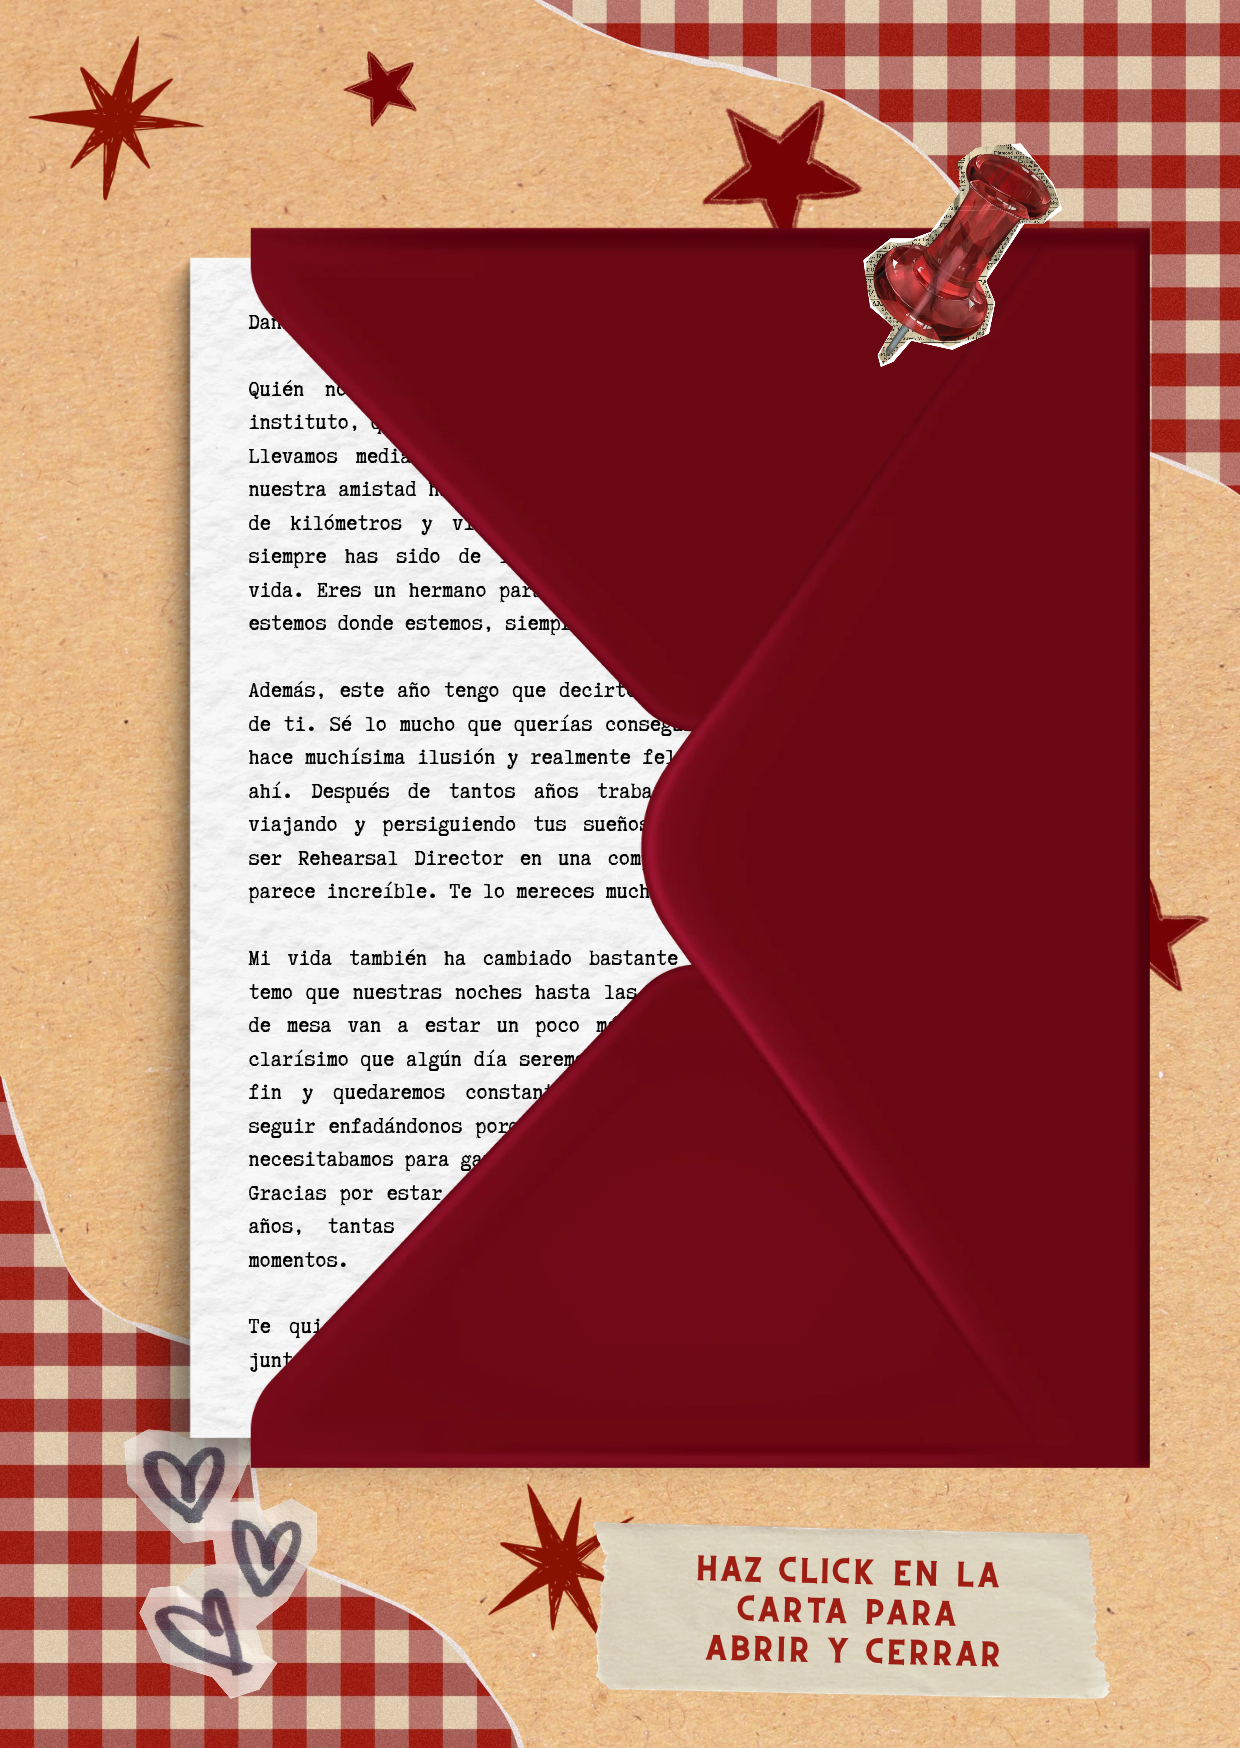
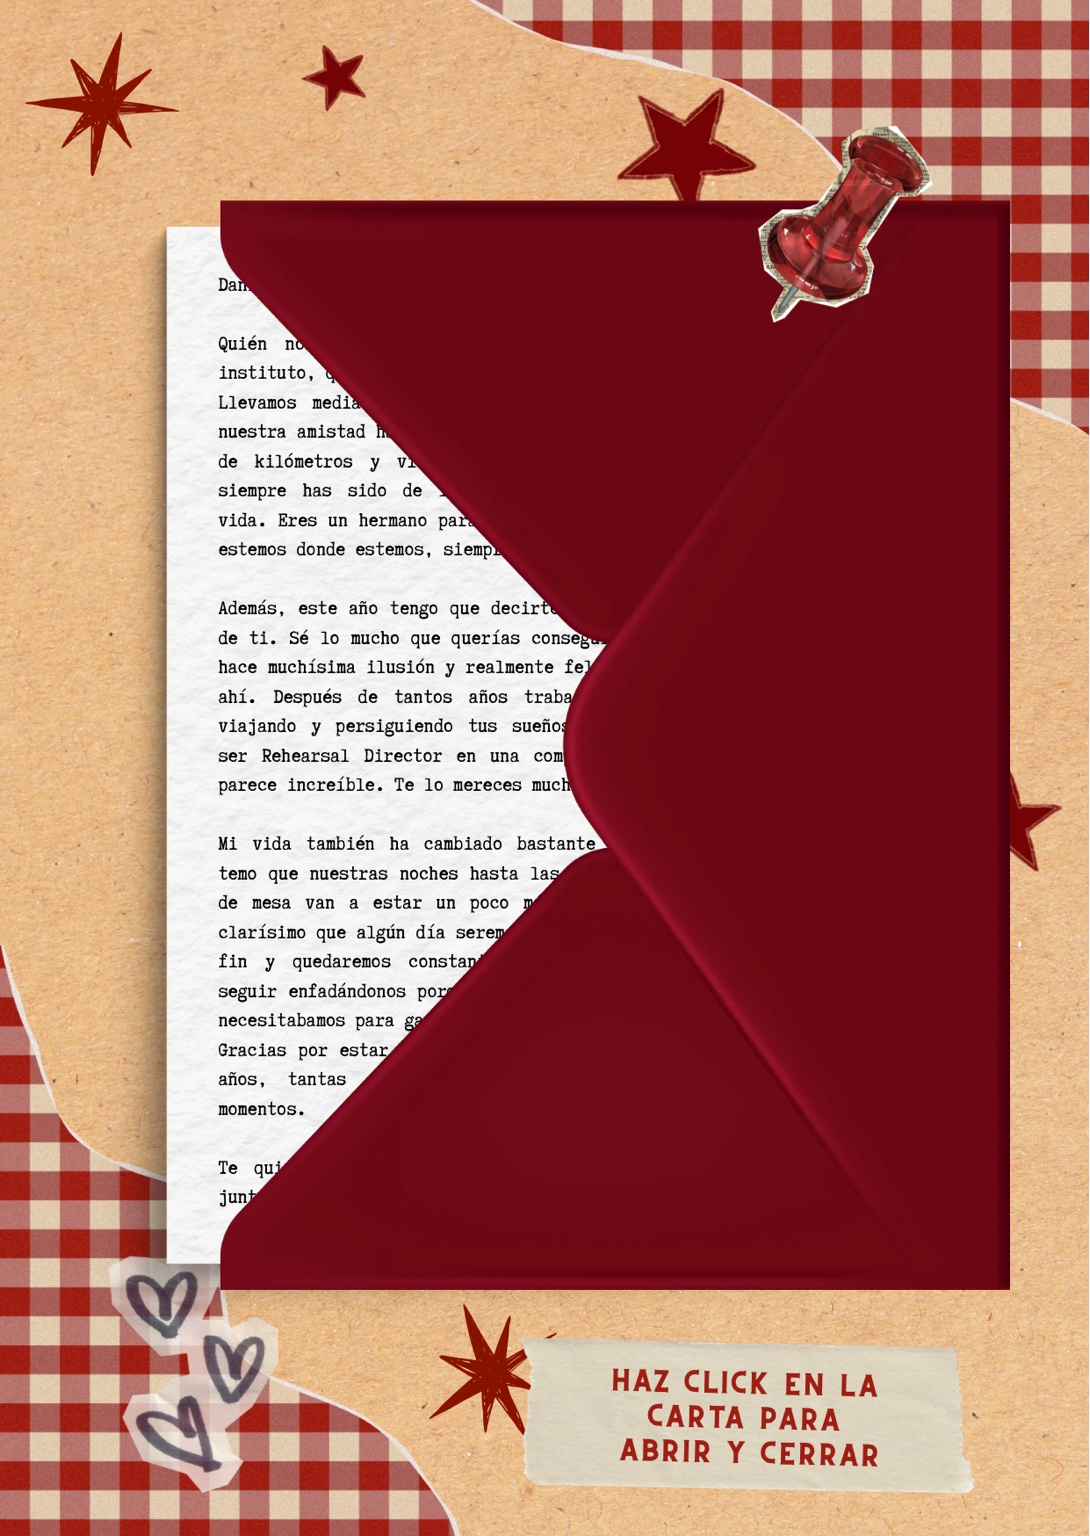
tira de fotos añadida

diff --git a/index.html b/index.html
@@ -4,7 +4,7 @@
     <meta charset="UTF-8" />
     <meta
       name="viewport"
-      content="width=device-width, initial-scale=1.0, maximum-scale=1.0, user-scalable=no"
+      content="width=device-width, initial-scale=1.0, viewport-fit=cover"
     />
     <title>Feliz cumpleaños Dani</title>
     <link rel="preconnect" href="https://fonts.googleapis.com" />
@@ -283,22 +283,55 @@
         inset: 0;
         z-index: 3;
       }
+      body > .tiraFotografica {
+        position: absolute;
+        left: 19%;
+        top: 5%;
+        width: 7%;
+        opacity: 0;
+        visibility: hidden;
+        transform: translateX(-50%) translateY(14%) scale(0.9) rotate(-12deg);
+        transform-origin: center center;
+        transition:
+          transform 0.7s cubic-bezier(0.34, 1.15, 0.4, 1),
+          filter 0.45s ease,
+          opacity 0.5s ease,
+          visibility 0.5s ease;
+        z-index: 3;
+        box-shadow: 0 12px 20px rgba(40, 15, 8, 0.22);
+        border-radius: 4px;
+        pointer-events: none;
+      }
+      .page2.raised .letter {
+        z-index: 6;
+      }
+      body > .tiraFotografica.visible {
+        opacity: 1;
+        visibility: visible;
+        transform: translateX(-50%) translateY(4%) scale(1.1) rotate(-8deg);
+      }
       .letter {
         position: absolute;
         left: 50%;
         top: 9%;
         width: 76%;
+        opacity: 0;
+        visibility: hidden;
         transform: translateX(-50%) translateY(17%) scale(0.8) rotate(-1deg);
         transform-origin: center center;
-        transition: transform 0.7s cubic-bezier(0.34, 1.15, 0.4, 1);
+        transition:
+          transform 0.7s cubic-bezier(0.34, 1.15, 0.4, 1),
+          filter 0.45s ease,
+          opacity 0.5s ease,
+          visibility 0.5s ease;
         z-index: 1;
         box-shadow: 0 12px 26px rgba(40, 15, 8, 0.4);
         border-radius: 3px;
       }
-      .page2.raised .letter {
-        z-index: 6;
-      }
       .page2.open .letter {
+        z-index: 5;
+        opacity: 1;
+        visibility: visible;
         transform: translateX(-50%) translateY(4%) scale(1.3) rotate(0deg);
       }
       .page2 img.letter {
@@ -596,29 +629,48 @@
         font-size: clamp(14px, 3.6vw, 18px);
         letter-spacing: 0.5px;
       }
-    </style>
+    
+/* A larger closed cover; the original open spread retains its exact sizing. */
+.stage { transform:scale(var(--cover-zoom,1)); transform-origin:center; transition:transform 1.6s cubic-bezier(.45,0,.2,1); animation:none; }
+body.card-open .stage { transform:scale(1); }
+.caption { translate:0 var(--caption-drop,0px); transition:translate 1.6s cubic-bezier(.45,0,.2,1); }
+body.card-open .caption { translate:0 0; }
+:root { --open:1.6s; }
+.letter-view { position:fixed; inset:0; width:100%; height:100%; max-width:none; max-height:none; margin:0; padding:12px; border:0; background:transparent; overflow:hidden; }
+.letter-view[open] { display:flex; align-items:center; justify-content:center; }
+.letter-view::backdrop { background:rgba(43,24,12,.38); }
+.letter-sheet { display:block; width:auto; height:auto; max-width:100%; max-height:calc(100dvh - 24px); object-fit:contain; box-shadow:0 16px 50px #24130b66; cursor:pointer; animation:unfold-letter .8s cubic-bezier(.2,.7,.2,1) both; }
+@keyframes unfold-letter { from { opacity:.35; transform:translate(var(--letter-x,0px),var(--letter-y,0px)) scale(.3) rotate(-3deg); } to { opacity:1; transform:translate(0,0) scale(1) rotate(0); } }
+@media(prefers-reduced-motion:reduce) { .stage,.card,.cover,.caption { transition-duration:.01ms!important; } .letter-sheet { animation:none; } }
+
+
+.letter-view.closing .letter-sheet { pointer-events:none; }
+.letter-view.closing::backdrop { animation:fade-letter-backdrop .8s ease both; }
+@keyframes fold-letter { from { opacity:1; transform:translate(0,0) scale(1) rotate(0); } to { opacity:0; transform:translate(var(--letter-x,0px),var(--letter-y,0px)) scale(.3) rotate(-3deg); } }
+@keyframes fade-letter-backdrop { from { background:rgba(43,24,12,.38); } to { background:rgba(43,24,12,0); } }
+@media(prefers-reduced-motion:reduce) { .letter-view.closing .letter-sheet, .letter-view.closing::backdrop { animation-duration:.01ms; } }
+
+.letter-sheet { animation:none; }
+.blow-ui.manual { bottom:3%; gap:0; }
+.blow-ui.manual .hint, .blow-ui.manual .meter { display:none!important; }
+.blow-ui.manual .tape-btn { width:auto; max-width:100%; white-space:nowrap; font-size:clamp(11px,2.7vw,14px); line-height:1.15; padding:7px 10px; min-height:32px; letter-spacing:0; touch-action:none; user-select:none; -webkit-user-select:none; -webkit-touch-callout:none; }
+
+/* Warm off-white background around the card. */
+body { background:#CDBBA5; }
+body::before, body::after { display:none; }
+
+.right { border-radius:0 12px 12px 0; }
+.cover .back, .page2 { border-radius:12px 0 0 12px; }
+.backbtn { margin-top:20px; opacity:0; visibility:hidden; }
+body.card-open .backbtn { opacity:1; visibility:visible; transition:opacity .35s ease 1.6s, visibility 0s linear 1.6s; }
+</style>
   </head>
   <body>
-    <svg class="doodle d1" viewBox="0 0 24 24" fill="currentColor">
-      <path d="M12 1l3 7 7 .5-5.5 4.5 2 7L12 17l-6.5 3 2-7L2 8.5 9 8z" />
-    </svg>
-    <svg class="doodle d2" viewBox="0 0 24 24" fill="currentColor">
-      <path d="M12 1l3 7 7 .5-5.5 4.5 2 7L12 17l-6.5 3 2-7L2 8.5 9 8z" />
-    </svg>
-    <svg class="doodle d3" viewBox="0 0 24 24" fill="currentColor">
-      <path d="M12 1l3 7 7 .5-5.5 4.5 2 7L12 17l-6.5 3 2-7L2 8.5 9 8z" />
-    </svg>
-    <svg
-      class="doodle d4"
-      viewBox="0 0 24 24"
-      fill="none"
-      stroke="#2b3a6b"
-      stroke-width="2"
-    >
-      <path
-        d="M12 21s-7-4.5-9.5-9C.8 8.6 2.5 5 6 5c2 0 3.2 1.2 4 2.4C10.8 6.2 12 5 14 5c3.5 0 5.2 3.6 3.5 7-2.5 4.5-9.5 9-9.5 9z"
-      />
-    </svg>
+
+    
+    
+    
+    
 
     <div class="wrap">
       <div class="stage">
@@ -626,7 +678,7 @@
           <!-- right leaf : candles (revealed when the cover opens) -->
           <section class="leaf right">
             <div class="page3" id="page3">
-              <img class="cake" src="/1000012225.png" />
+              <img class="cake" src="./1000012225.png" />
               <div
                 class="flame"
                 id="flame1"
@@ -703,22 +755,24 @@
           <!-- cover leaf : front = photo, back = the letter page -->
           <section class="leaf cover" id="cover">
             <div class="face front">
-              <img src="/1000012222.png" />
+              <img src="./1000012222.png" />
             </div>
             <div class="face back">
               <div class="page2" id="page2">
-                <img class="letter" src="/1000012224.png" />
-                <img class="env" src="/1000012223.png" />
+                  <img class="letter" src="./1000012224.png" />
+                <img class="env" src="./1000012223.png" />
               </div>
             </div>
           </section>
         </div>
       </div>
-      <div class="caption">para Dani ♥</div>
       <button class="backbtn" id="backBtn">‹ vuelve a la portada</button>
     </div>
     <div class="confetti" id="confetti"></div>
 
+    <dialog id="letterView" class="letter-view" aria-label="Carta para Dani. Toca la carta para guardarla.">
+      <img class="letter-sheet" src="./1000012224.png" alt="Carta de cumpleaños para Dani" />
+    </dialog>
     <script>
       ;(function () {
         const card = document.getElementById('card')
@@ -737,6 +791,7 @@
         function openCard() {
           opened = true
           card.classList.add('open')
+          document.body.classList.add('card-open')
           backBtn.style.display = 'inline-block'
           setTimeout(() => {
             if (micReady && !extinguished) startBlowLoop()
@@ -745,6 +800,7 @@
         function closeCard() {
           opened = false
           card.classList.remove('open')
+          document.body.classList.remove('card-open')
           backBtn.style.display = 'none'
           closeLetter()
           stopBlowLoop()
@@ -754,27 +810,76 @@
 
         /* ---- letter ---- */
         const page2 = document.getElementById('page2')
+
+        const letterImage = document.querySelector('.letter')
         let letterOpen = false,
           tuck = null
         page2.addEventListener('click', (e) => {
           e.stopPropagation()
-          letterOpen ? closeLetter() : openLetter()
-        })
-        function openLetter() {
-          letterOpen = true
-          clearTimeout(tuck)
-          page2.classList.add('raised', 'open')
-        }
-        function closeLetter() {
-          if (!page2.classList.contains('open')) {
-            page2.classList.remove('raised')
-            letterOpen = false
+          if (e.target === letterImage || e.target.closest('.letter')) {
+            letterOpen ? closeLetter() : openLetter()
             return
           }
+          letterOpen ? closeLetter() : openLetter()
+        })
+        const letterView = document.getElementById('letterView')
+        letterView.addEventListener('click', closeLetter)
+        let letterClosingTimer = null
+        let letterMotion = null
+        const letterSheet = letterView.querySelector('.letter-sheet')
+        function finishLetterClose() {
+          if (!letterView.classList.contains('closing')) return
+          clearTimeout(letterClosingTimer)
+          letterView.close()
+          letterView.classList.remove('closing')
           letterOpen = false
-          page2.classList.remove('open')
-          tuck = setTimeout(() => page2.classList.remove('raised'), 720)
         }
+        letterView.addEventListener('cancel', event => {
+          event.preventDefault()
+          closeLetter()
+        })
+        letterView.addEventListener('close', () => {
+          clearTimeout(letterClosingTimer)
+          letterView.classList.remove('closing')
+          letterOpen = false
+        })
+        function openLetter() {
+          if (letterView.open) return
+          letterOpen = true
+          const rect = page2.getBoundingClientRect()
+          letterView.style.setProperty('--letter-x', (rect.left + rect.width/2 - innerWidth/2) + 'px')
+          letterView.style.setProperty('--letter-y', (rect.top + rect.height/2 - innerHeight/2) + 'px')
+          letterView.showModal()
+          letterMotion?.cancel()
+          const x = letterView.style.getPropertyValue('--letter-x')
+          const y = letterView.style.getPropertyValue('--letter-y')
+          letterMotion = letterSheet.animate([
+            { opacity:.35, transform:`translate(${x},${y}) scale(.3) rotate(-3deg)` },
+            { opacity:1, transform:'translate(0,0) scale(1) rotate(0)' }
+          ], { duration:matchMedia('(prefers-reduced-motion: reduce)').matches ? 1 : 800,
+               easing:'cubic-bezier(.2,.7,.2,1)', fill:'both' })
+        }
+        function closeLetter() {
+          if (!letterView.open || letterView.classList.contains('closing')) return
+          letterView.classList.add('closing')
+          // Reverse the same animation instance, including its easing and current progress.
+          letterMotion.reverse()
+          letterMotion.finished.then(finishLetterClose).catch(() => {})
+          letterClosingTimer = setTimeout(finishLetterClose, 850)
+        }
+        function fitCover() {
+          const width = card.offsetWidth / 2
+          const height = card.offsetHeight
+          const view = window.visualViewport
+          const vw = view ? view.width : innerWidth
+          const vh = view ? view.height : innerHeight
+          const scale = Math.max(1, Math.min((vw - 40) / width, (vh - 110) / height, 2.1))
+          document.body.style.setProperty('--cover-zoom', scale)
+          document.body.style.setProperty('--caption-drop', ((scale - 1)*height/2) + 'px')
+        }
+        fitCover()
+        addEventListener('resize', fitCover)
+        window.visualViewport?.addEventListener('resize', fitCover)
 
         /* ---- candles / blow ---- */
         const flames = [
@@ -838,7 +943,10 @@
         }
         function setupFallback() {
           micReady = false
-          micBtn.textContent = '💨 manten presionado para soplar'
+          if (micBtn.classList.contains('hold')) return
+          micBtn.textContent = 'Mantén para soplar'
+          blowUi.classList.add('manual')
+          micBtn.removeEventListener('click', enableMic)
           micBtn.classList.add('hold')
           hint.style.display = 'block'
           hint.textContent = '(micro apagado — presiona y mantén para soplar)'
@@ -850,12 +958,13 @@
           const up = () => {
             holdActive = false
           }
-          micBtn.replaceWith(micBtn.cloneNode(true))
-          const btn = document.getElementById('micBtn')
+          const btn = micBtn
           btn.addEventListener('mousedown', down)
           btn.addEventListener('touchstart', down, { passive: false })
           window.addEventListener('mouseup', up)
           window.addEventListener('touchend', up)
+          window.addEventListener('touchcancel', up)
+          window.addEventListener('blur', up)
           window.addEventListener('keydown', (e) => {
             if (e.code === 'Space') {
               e.preventDefault()
